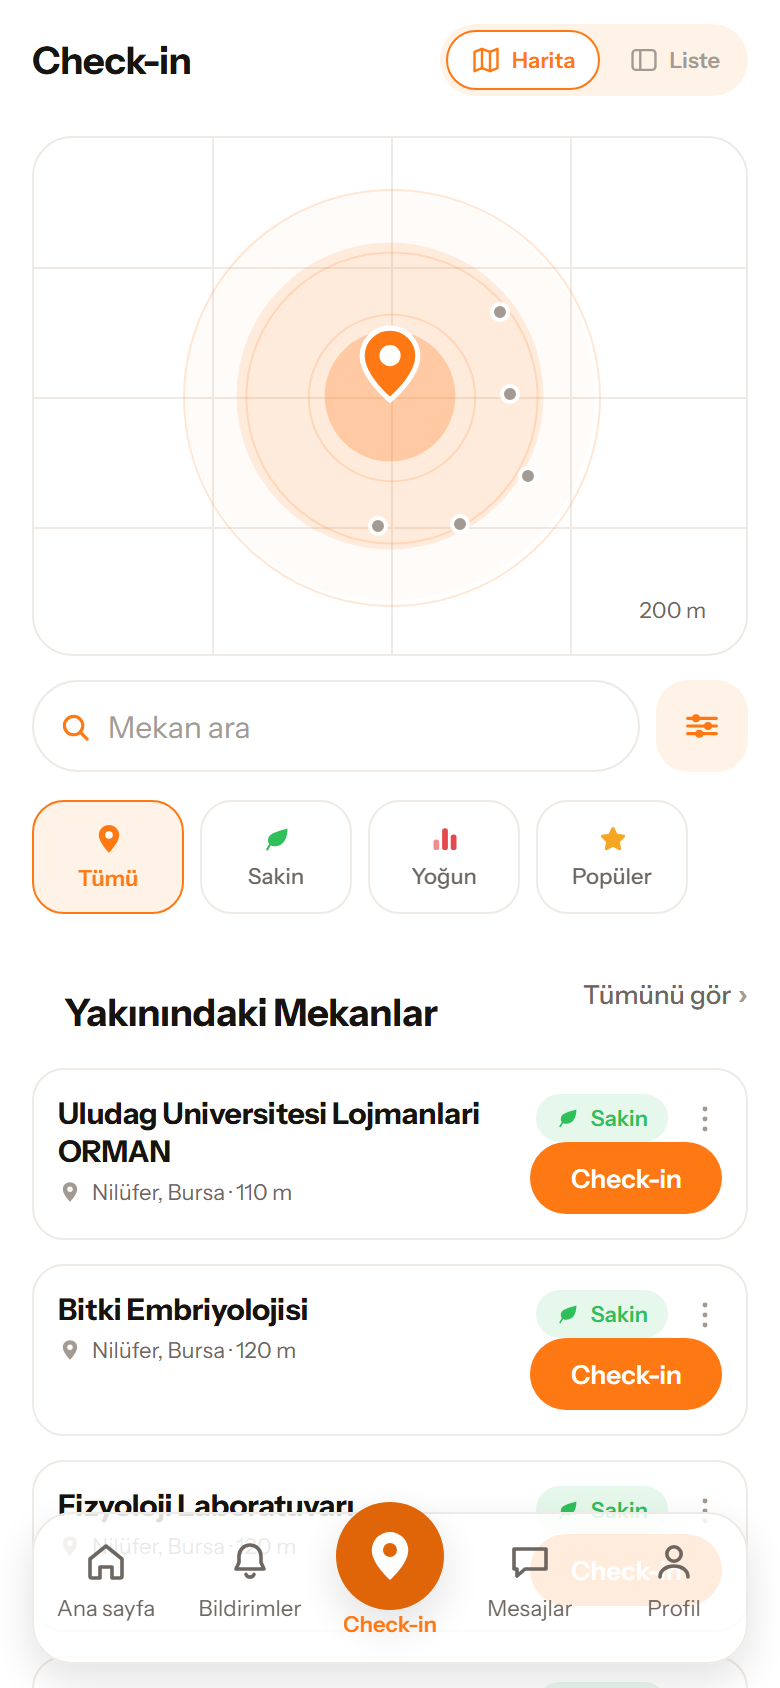
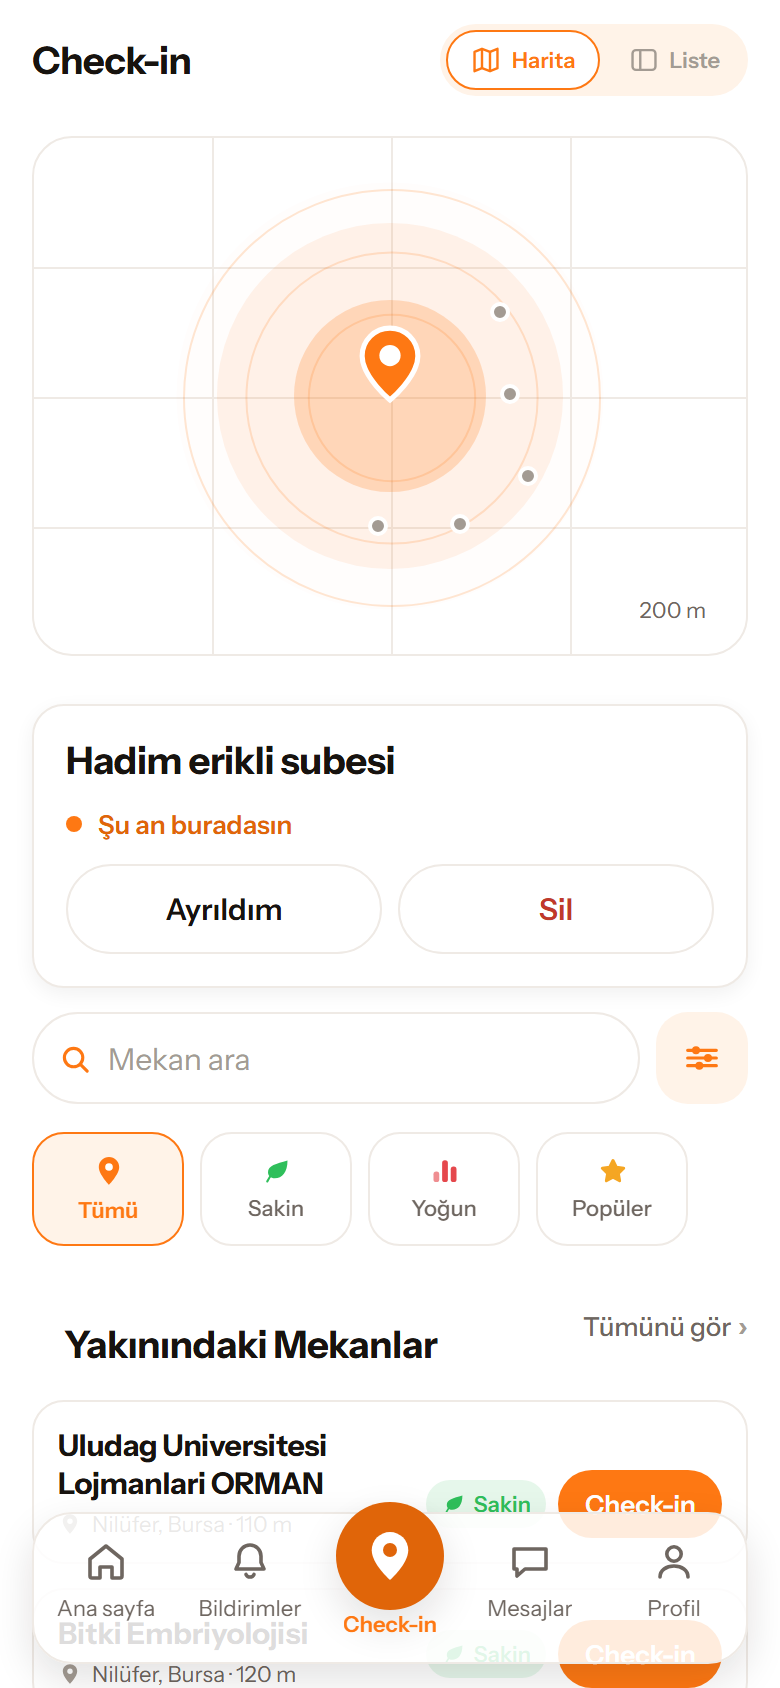
fix(kesfet): rozet check-in'in soluna, kart menusu kaldirildi
Kullanicinin iki duzeltmesi:

1) "Rozet check-in yazisinin soluna gelicek" - rozet ustte, buton altta
   ayri satirlardaydi; artik ikisi yan yana, rozet solda.

2) "Yanlarindaki 3 noktayi kaldirip oyle duzenle" - kart menusu
   kaldirildi. Icindeki iki islem zaten baska yerdeydi: mekan adina
   basmak konum sayfasini aciyor, buton da check-in'i. Kalkinca sag
   blok daraldi ve mekan adina yer acildi.

Rozet ve buton yan yana durdugu icin ikisinin de dolgusu kisildi: 342
px'lik bir kartta sag blok genisledikce ad iki satira duesuyordu.
Kullanilmayan SecimPenceresi importu ve menuMekan durumu da temizlendi.

Dogrulama: jest 60 paket / 603 test, tsc taban hatalari, kart LISTE
gorunumunde ekran goruntusuyle olculdu (harita gizlenince kartlar
alt gezinme cubuguyla cakismadan gorulebiliyor).

Claude-Session: https://claude.ai/code/session_014wYs6J6iS1AnuVStzS1buE

diff --git a/mobil/src/app/mekanlar/index.tsx b/mobil/src/app/mekanlar/index.tsx
@@ -36,7 +36,6 @@ import { useRenk, useStiller } from '../../tasarim/tema-baglami'
 import { OnayPenceresi } from '../../tasarim/OnayPenceresi'
 import { ALT_GEZINME_PAYI } from '../../tasarim/AltGezinme'
 import { UstCubuk } from '../../tasarim/UstCubuk'
-import { SecimPenceresi } from '../../tasarim/SecimPenceresi'
 import { TurSecici } from '../../tasarim/TurSecici'
 import {
   HaritaIkonu,
@@ -47,7 +46,6 @@ import {
   CubukIkonu,
   YildizIkonu,
   KisilerIkonu,
-  DikeyUcNoktaIkonu,
   GeriOkIkonu,
 } from '../../tasarim/mekan-ikonlari'
 import { CanliHarita } from '../../tasarim/CanliHarita'
@@ -158,8 +156,6 @@ export default function KesfetEkrani() {
    */
   const [durum, setDurum] = useState<'tumu' | MekanDurumu>('tumu')
 
-  /** Kart menusu: hangi mekanin uc noktasi acik. */
-  const [menuMekan, setMenuMekan] = useState<MekanYogunlukIle | null>(null)
   const [mekanlar, setMekanlar] = useState<MekanYogunlukIle[]>([])
   // AKTIF CHECK-IN (kullanicinin istegi 2026-08-29): check-in yapilmis
   // mekanda kart artik "Check-in yap" demiyor; "Şu an buradasın" deyip
@@ -837,7 +833,16 @@ export default function KesfetEkrani() {
             </View>
 
             <View style={stiller.kartSag}>
-              <View style={stiller.kartSagUst}>
+              {/* UC NOKTA KALDIRILDI (kullanicinin istegi 2026-09-06:
+                  "Yanlarindaki 3 noktayi kaldirip oyle duzenle").
+                  Icindeki iki islem zaten baska yerde: mekan ADINA
+                  basmak konum sayfasini aciyor, buton da check-in'i.
+                  Kalkinca sag blok daraldi ve ada yer acildi.
+
+                  ROZET, CHECK-IN'IN SOLUNDA ve ayni satirda
+                  (kullanicinin duzeltmesi: "Rozet check-in yazisinin
+                  soluna gelicek"). */}
+              <View style={stiller.kartAltSatir}>
                 <View style={[stiller.rozet, { backgroundColor: DURUM_ZEMINI[d] }]}>
                   {d === 'sakin' ? (
                     <YaprakIkonu boyut={12} />
@@ -850,28 +855,19 @@ export default function KesfetEkrani() {
                     {t(`kesfet.${d}`)}
                   </Text>
                 </View>
+
                 <Pressable
-                  onPress={() => setMenuMekan(item)}
+                  style={stiller.kartCheckIn}
+                  onPress={() => router.push(`/check-in/${item.id}`)}
                   accessibilityRole="button"
-                  accessibilityLabel={t('anaSayfa.secenekler')}
-                  hitSlop={8}
-                  testID={`kart-menu-${item.id}`}
+                  accessibilityLabel={`${item.ad} için check-in yap`}
+                  testID={`satir-checkin-${item.id}`}
                 >
-                  <DikeyUcNoktaIkonu boyut={17} renk={renk.metinSoluk} />
+                  <Text style={stiller.kartCheckInYazi} numberOfLines={1}>
+                    {t('kesfet.checkIn')}
+                  </Text>
                 </Pressable>
               </View>
-
-              <Pressable
-                style={stiller.kartCheckIn}
-                onPress={() => router.push(`/check-in/${item.id}`)}
-                accessibilityRole="button"
-                accessibilityLabel={`${item.ad} için check-in yap`}
-                testID={`satir-checkin-${item.id}`}
-              >
-                <Text style={stiller.kartCheckInYazi} numberOfLines={1}>
-                  {t('kesfet.checkIn')}
-                </Text>
-              </Pressable>
             </View>
           </View>
           )
@@ -901,36 +897,6 @@ export default function KesfetEkrani() {
       onKaydet={turleriUygula}
     />
 
-    {/* Kart menusu. Referans gorselde her kartin sag ustunde bir uc
-        nokta var; icerigi mekanla ilgili iki islem. */}
-    <SecimPenceresi
-      acikMi={menuMekan !== null}
-      onKapat={() => setMenuMekan(null)}
-      secimler={
-        menuMekan
-          ? [
-              {
-                etiket: t('kesfet.konumuGor'),
-                onSec: () => {
-                  const hedef = menuMekan.id
-                  setMenuMekan(null)
-                  router.push(`/harita/${hedef}` as never)
-                },
-                testID: 'menu-konumu-gor',
-              },
-              {
-                etiket: t('kesfet.checkInYap'),
-                onSec: () => {
-                  const hedef = menuMekan.id
-                  setMenuMekan(null)
-                  router.push(`/check-in/${hedef}`)
-                },
-                testID: 'menu-check-in',
-              },
-            ]
-          : []
-      }
-    />
     </View>
   )
 }
@@ -1202,22 +1168,27 @@ const stilleriYap = (renk: Renk) => StyleSheet.create({
     fontSize: olcek.minik,
     color: renk.turuncu,
   },
-  kartSag: { alignItems: 'flex-end', justifyContent: 'space-between' },
-  kartSagUst: { flexDirection: 'row', alignItems: 'center', gap: 10 },
+  // Uc nokta kalkinca sag blokta tek satir kaldi: rozet + buton.
+  kartSag: { alignItems: 'flex-end', justifyContent: 'flex-end' },
+  // Rozet ve Check-in YAN YANA, rozet solda.
+  kartAltSatir: { flexDirection: 'row', alignItems: 'center', gap: 6 },
+  // Rozet ve buton YAN YANA durdugu icin ikisi de dar tutuluyor:
+  // 342 px'lik bir kartta sag blok genisledikce mekan adina yer
+  // kalmiyor ve ad iki satira duesuyor.
   rozet: {
     flexDirection: 'row',
     alignItems: 'center',
-    gap: 5,
+    gap: 4,
     paddingVertical: 5,
-    paddingHorizontal: 10,
+    paddingHorizontal: 8,
     borderRadius: yuvarlak.hap,
   },
   rozetYazi: { fontFamily: yazi.govdeKalin, fontSize: olcek.minik },
   kartCheckIn: {
     backgroundColor: renk.turuncu,
     borderRadius: yuvarlak.hap,
-    paddingVertical: 10,
-    paddingHorizontal: 20,
+    paddingVertical: 9,
+    paddingHorizontal: 13,
   },
   kartCheckInYazi: {
     fontFamily: yazi.govdeKalin,

diff --git a/CLAUDE.md b/CLAUDE.md
@@ -628,6 +628,18 @@ Ayni sinif sorun 2026-09-01'de arama tarafinda yasanmisti ve orada
 Canli dogrulama: Kafe 100 sonuc 0,56 sn, uc tur birlikte 1,51 sn,
 hepsi Bursa.
 
+**KART DUZENI KULLANICININ IKI DUZELTMESIYLE OTURDU:**
+
+1. "Rozet check-in yazisinin soluna gelicek" - rozet ustte, buton altta
+   ayri satirlardaydi; artik IKISI YAN YANA, rozet solda.
+2. "Yanlarindaki 3 noktayi kaldirip oyle duzenle" - kart menusu
+   KALDIRILDI. Icindeki iki islem zaten baska yerdeydi: mekan ADINA
+   basmak konum sayfasini aciyor, buton da check-in'i. Kalkinca sag
+   blok daraldi ve mekan adina yer acildi.
+
+Rozet ve buton yan yana durdugu icin ikisinin de dolgusu KISILDI: 342
+px'lik bir kartta sag blok genisledikce ad iki satira duesuyordu.
+
 **"TUMU" DUGMESI IKI ISLEVLI - kullanicinin duzeltmesi:** ilk halde
 secimi TEMIZLIYORDU (benim okumamla "filtre yok, hepsi gorunsun"), ama
 dugmenin adi tumunu SECECEGINI soyluyor ve kullanici hakli olarak onu
